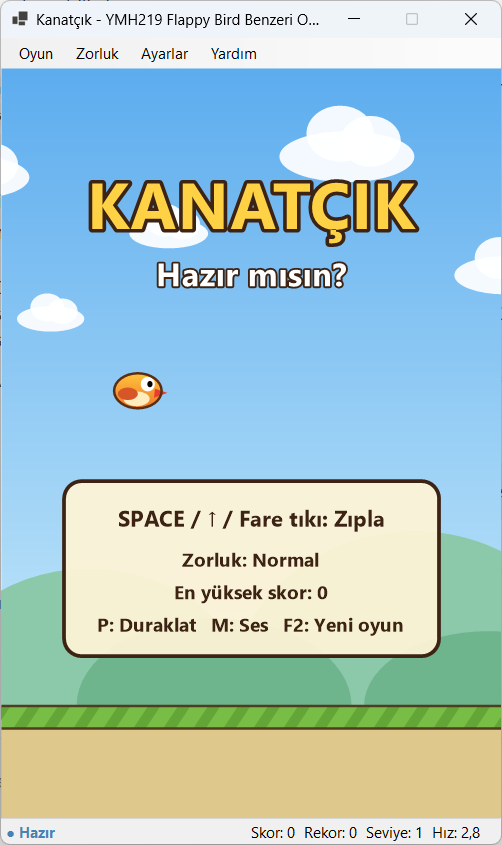
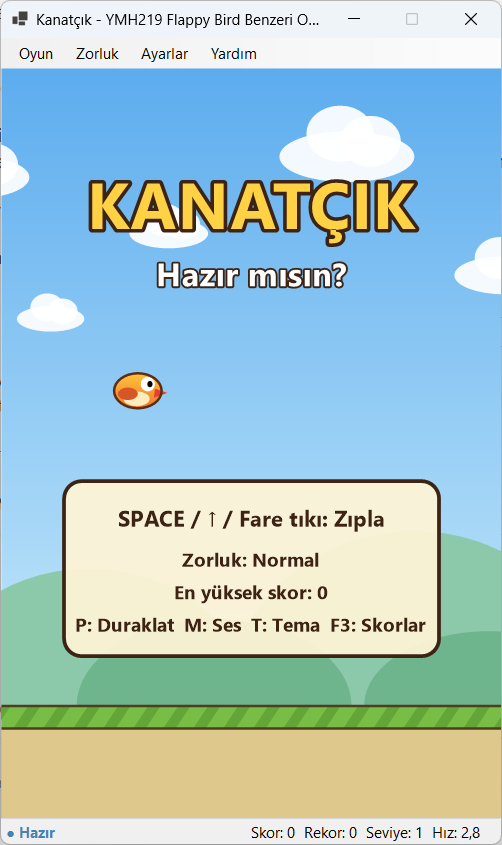
README güncellendi: skor tablosu, gece teması ve yeni ekran görüntüleri

Changed region(s): [[0.2092, 0.7077, 0.8367, 0.7692], [0.1494, 0.7077, 0.1793, 0.7692]]

diff --git a/README.md b/README.md
@@ -10,10 +10,14 @@
 |:---:|:---:|:---:|
 | ![Başlangıç ekranı](docs/screenshots/01-baslangic.png) | ![Oyun ekranı](docs/screenshots/02-oyun.png) | ![Game Over ekranı](docs/screenshots/03-game-over.png) |
 
+| Gece teması | Skor tablosu (ilk 10) |
+|:---:|:---:|
+| ![Gece teması](docs/screenshots/04-gece.png) | ![Skor tablosu](docs/screenshots/05-skor-tablosu.png) |
+
 ## Kullanılan Teknolojiler
 
 - C# (.NET 10)
-- Windows Forms (`Form`, `Panel`, `MenuStrip`, `StatusStrip`, `Timer`)
+- Windows Forms (`Form`, `Panel`, `MenuStrip`, `StatusStrip`, `Timer`, `TabControl`, `ListView`)
 - GDI+ (`System.Drawing`) ile çizim
 - `System.Media.SoundPlayer` ile ses efektleri
 - Harici NuGet paketi **kullanılmamıştır**
@@ -41,6 +45,8 @@ dotnet run --project FlappyBird/FlappyBird.csproj
 | `R` / `F2` | Yeni oyun |
 | `Enter` | Game Over ekranında yeniden başlat |
 | `M` | Sesi aç / kapat |
+| `T` | Gündüz / gece teması |
+| `F3` | Skor tablosu (ilk 10) |
 | `F1` | Kontroller penceresi |
 
 ## Temel Özellikler
@@ -54,10 +60,11 @@ dotnet run --project FlappyBird/FlappyBird.csproj
 - Hız, skor, seviye ve oyun durumu `GameEngine` sınıfının özelliklerinde tutulur ve durum çubuğunda gösterilir.
 
 **İsteğe bağlı geliştirmeler**
-- **En yüksek skor dosyada saklanır:** Her zorluk seviyesi için ayrı tutulur (`%AppData%\YMH219-FlappyBird\highscores.txt`).
+- **En yüksek skor dosyada saklanır:** Her zorluk seviyesi için **ilk 10 skor**; skor, ulaşılan seviye ve tarih bilgisiyle `%AppData%\YMH219-FlappyBird\highscores.txt` dosyasında tutulur. `Oyun → Skor Tablosu` (F3) penceresinde her zorluk ayrı bir sekmede listelenir ve tablo, onay alındıktan sonra temizlenebilir. Game Over ekranında oyunun tablodaki sırası gösterilir.
 - **Seviye ilerledikçe hız artar:** Her 5 puanda seviye atlanır ve engeller hızlanır.
 - **Ses efektleri:** Zıplama, puan, seviye atlama ve çarpma sesleri, harici dosya gerekmeden kod içinde üretilir.
 - **Zorluk seviyeleri:** Kolay, Normal ve Zor seviyelerinde başlangıç hızı ve boşluk yüksekliği farklıdır.
+- **Gece teması:** `Ayarlar → Gece Teması` veya `T` tuşuyla, parıldayan yıldızlar ve hilal içeren gece arka planına geçilir.
 - Pencere odağı kaybedildiğinde oyun otomatik olarak duraklar.
 
 ## Proje Yapısı ve Sınıf Tasarımı
@@ -66,6 +73,7 @@ dotnet run --project FlappyBird/FlappyBird.csproj
 FlappyBird/
 ├── Program.cs                  Giriş noktası, genel hata yakalama
 ├── MainForm.cs / .Designer.cs  Pencere: Timer, KeyDown/KeyUp, menü, durum çubuğu
+├── ScoreBoardForm.cs / .Designer.cs  İlk 10 skor tablosu penceresi
 ├── Game/
 │   ├── GameObject.cs           Konumu ve boyutu olan nesneler için soyut temel sınıf
 │   ├── Bird.cs                 Oyuncu (GameObject'ten türer): yer çekimi, zıplama, çizim
@@ -74,9 +82,11 @@ FlappyBird/
 │   ├── GameState.cs            Ready / Playing / Paused / GameOver
 │   └── DifficultySettings.cs   Zorluk seviyesi ayarları
 ├── Rendering/
-│   └── GameRenderer.cs         Arka plan, zemin, skor ve bilgi ekranlarının çizimi
+│   ├── GameRenderer.cs         Arka plan, zemin, skor ve bilgi ekranlarının çizimi
+│   └── ThemePalette.cs         Gündüz / gece renk temaları
 ├── Services/
-│   ├── HighScoreRepository.cs  En yüksek skorun dosyaya okunması/yazılması
+│   ├── HighScoreRepository.cs  İlk 10 skorun dosyaya okunması/yazılması
+│   ├── ScoreEntry.cs           Skor kaydı (skor, seviye, tarih)
 │   └── SoundEffects.cs         Ses efektleri
 └── Controls/
     └── GamePanel.cs            Titreşimsiz çizim için çift tamponlu panel
@@ -94,7 +104,8 @@ FlappyBird/
 - Oyun döngüsü `System.Windows.Forms.Timer` ile kare tabanlıdır. Bu yüzden çok yavaş bilgisayarlarda oyun biraz yavaşlayabilir.
 - `SoundPlayer` aynı anda tek ses çalabildiği için art arda gelen sesler birbirini kesebilir.
 - Uygulama yalnızca Windows'ta çalışır (Windows Forms).
-- Gelecekte eklenebilecekler: görsel temalar, skor tablosu (ilk 10), oyun kumanda desteği.
+- Seçilen tema bir sonraki açılışta hatırlanmaz; oyun her zaman gündüz temasıyla başlar.
+- Gelecekte eklenebilecekler: tema ve ses tercihinin kaydedilmesi, oyun kumandası desteği, farklı kuş görünümleri.
 
 ## Öğrenci Bilgileri
 
